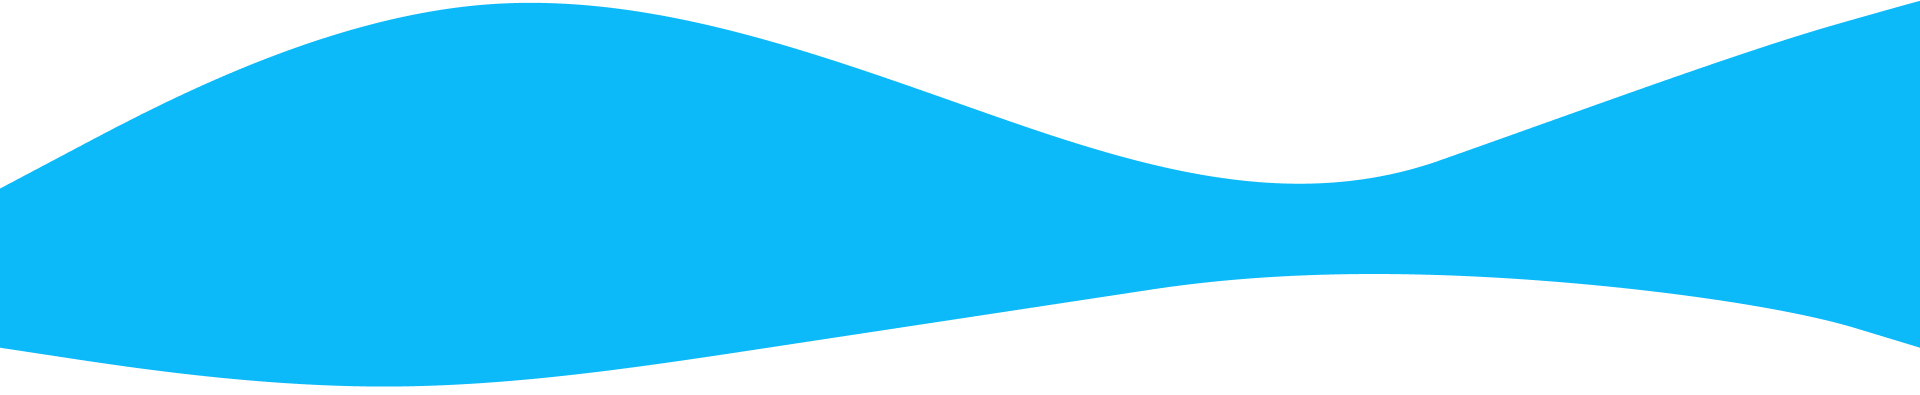
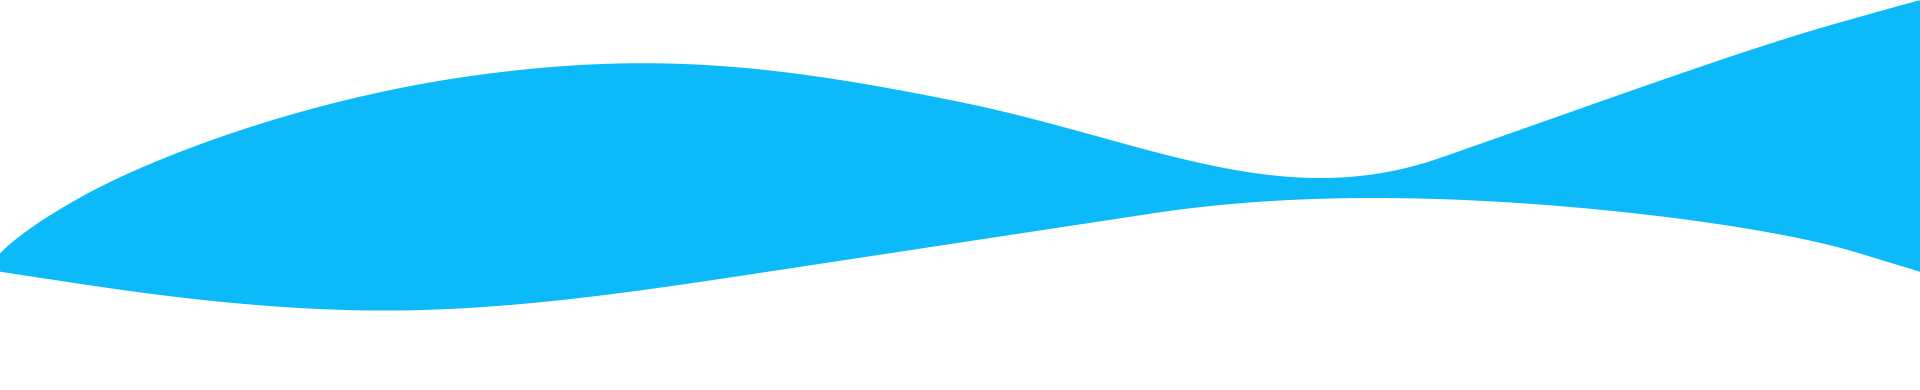
Интро (почти готовое)

diff --git a/index.html b/index.html
@@ -11,32 +11,37 @@
 </head>
 
 <body>
-  <!-- Навигационная панель -->
+  <!-- Шапка -->
   <header class="pb-5">
     
     <div class="header-background">
-      <div class="container">
+      <div class="container h-100">
 
-        <img class="sobaken" src="./img/Dog.png" alt="sobaken">  
-        <div class="wave"></div>
+        <!-- Навигационная панель -->
+        <div class="navbar d-none d-md-flex align-items-center">
 
-        <div class="navbar d-none d-lg-flex justify-content-between align-items-center">
           <h1><a href="" class="color-white">VETPET</a></h1>
 
           <div class="nav">
             
             <div class="px-3">
-              <a href="" class="nav-line">Услуги</a></div>
+              <a href="" class="nav-line">Услуги</a>
+            </div>
             <div class="px-3">
-              <a href="" class="nav-line">Врачи</a></div>
+              <a href="" class="nav-line">Врачи</a>
+            </div>
             <div class="px-3">
-              <a href="" class="nav-line">О нас</a></div>
+              <a href="" class="nav-line">О нас</a>
+            </div>
             <div class="px-3">
-              <a href="" class="nav-line">Отзывы</a></div>
+              <a href="" class="nav-line">Отзывы</a>
+            </div>
             <div class="px-3">
-              <a href="" class="nav-line">Вопросы</a></div>
+              <a href="" class="nav-line">Вопросы</a>
+            </div>
             <div class="px-3">
-              <a href="" class="nav-line">Контакты</a></div>
+              <a href="" class="nav-line">Контакты</a>
+            </div>
 
           </div>
 
@@ -45,6 +50,33 @@
             <span class="color-white ps-2">+7 (383) 213-32-12</span>
           </div>
 
+        </div>
+
+        <!-- Наполнение шапки -->
+        <div class="row ">
+
+          <!-- Текст шапки -->
+          <div class="col-6 d-none d-lg-flex align-items-center">
+
+            <div class="text-white">
+              <p><i class="bi bi-geo-alt-fill"></i> Новосибирск</p>
+              <h2>Ветеринарная клиника</h2>
+              <p class="pb-4">Кроглосуточная заботка о ваших питомцах</p>
+
+              <button type="button" class="btn btn-appointment">Записаться на прием</button>
+              <button type="button" class="btn text-white">Вызвать врача</button>
+
+            </div>
+          
+          </div>
+
+          <!-- Волна и собака -->
+          <div class="col-lg-6 col-12 d-flex justify-content-lg-end justify-content-center"> 
+
+            <img class="pt-5" src="./img/Dog.png" alt="sobaken">  
+            <div class="wave"></div>
+
+          </div>
         </div>
 
       </div>

diff --git a/style.css b/style.css
@@ -46,6 +46,12 @@ h1:hover{
   transform: scale(1.1);
 }
 
+h2{
+  font-weight: bold;
+  font-size: 72px;
+  line-height: 70px;
+}
+
 /* Цвета */
 .color-white{
   color: white;
@@ -67,13 +73,6 @@ h1:hover{
   height: 863px;
 }
 
-.sobaken{
-  position: absolute;
-
-  right: 17%;
-  bottom: 19%;
-}
-
 .wave{
   background-image: url(./img/wave.png);
   background-repeat: no-repeat;
@@ -81,12 +80,10 @@ h1:hover{
   position: absolute;
 
   width: 100%;
-  height: 394.27px;
+  height: 390px;
 
   right: 0;
   bottom: 0;
-
-  z-index: 1;
 }
 
 .nav-line{
@@ -99,6 +96,20 @@ h1:hover{
   line-height: 18px;
 }
 
+.btn{
+  padding: 16px 32px;
+}
+
+.btn-appointment{
+  background-color: white;
+  border-radius: 50px;
+
+  line-height: 20px;
+
+  color: #1CA6F3;
+}
+
+/* Тело сайта */
 /* Иконка скролла */
 .icon-scroll {
   margin-left: auto;
@@ -187,7 +198,7 @@ h1:hover{
   background-color: #ffffff;
   border-radius: 50%;
   padding: 15px;
-  margin: 10px;
+  margin: 5px;
   width: 50px;
   height: 50px;
   font-size: 18px;
@@ -273,19 +284,13 @@ h1:hover{
   color: #ffffff;
 }
 
+/* Адаптиация */
+@media screen and (max-width: 1199px){
 
-
-/* Медиа */
-@media screen and (max-width: 1399px){
-  .sobaken{
-    position: absolute;
-    right: 5%;
+  h2{
+    font-size: 64px;
+    line-height: 60px;
   }
-}
 
-@media screen and (max-width: 991px){
-  .sobaken{
-    left: 50%;
-    transform: translate(-50%, 0);
-  }
 } 
+
